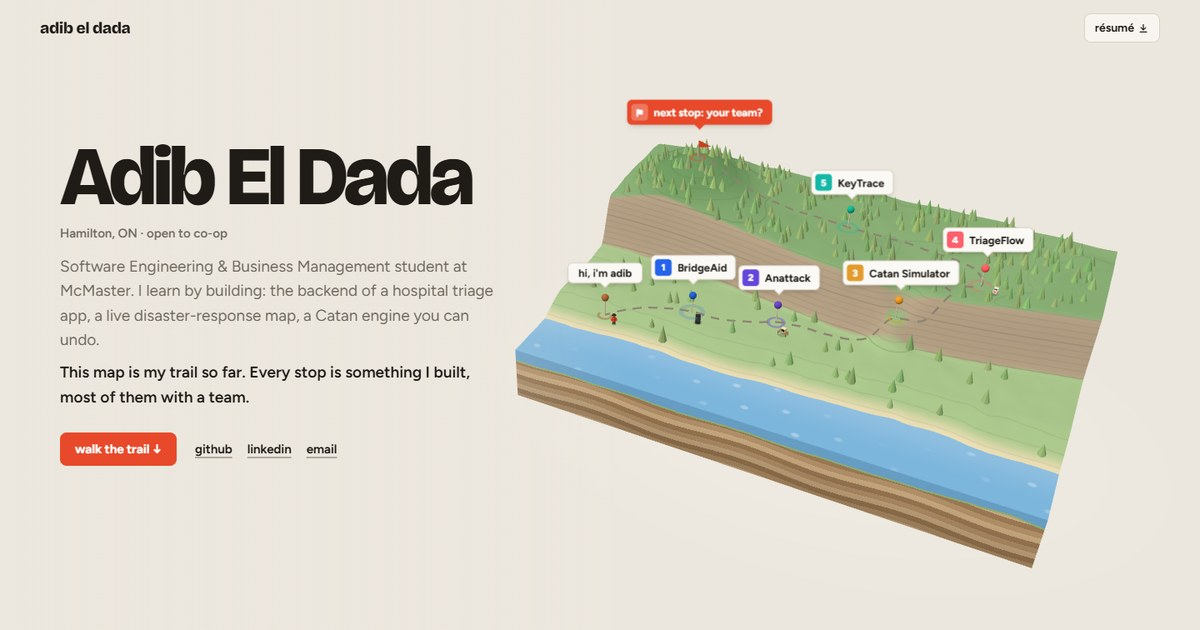
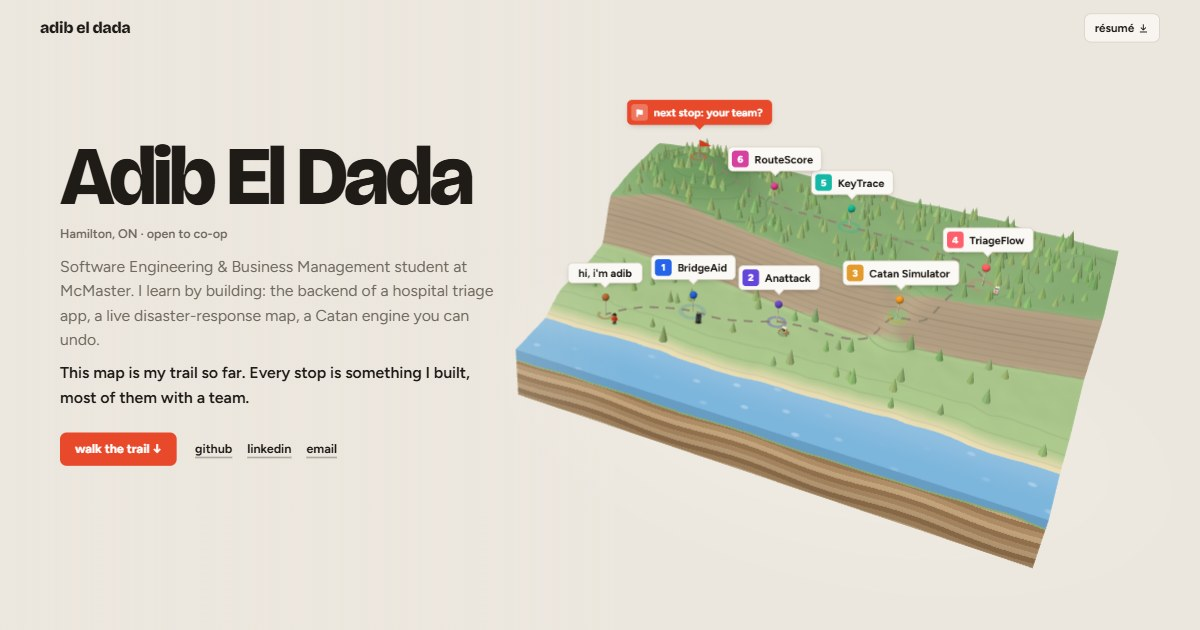
added RouteScore to the roadmap

diff --git a/src/data/projects.ts b/src/data/projects.ts
@@ -115,14 +115,34 @@ export const projects: Project[] = [
 		status: 'in progress',
 		icon: ['#14B8A6', '#5EEAD4'],
 		about:
-			'A web app for practicing coding interviews. You solve a problem in a shared code editor in the browser, alone or with a friend or tutor playing the interviewer. The idea: every keystroke gets recorded, so afterwards you can replay the session and see where you got stuck, what you rewrote and how long each part took, like athletes reviewing game footage.',
+			'A web app for practicing coding interviews. You solve a problem in a shared code editor in the browser, alone or with a friend or tutor playing the interviewer. Every edit gets recorded, so afterwards you can replay the session and see where you got stuck, what you rewrote and how long each part took, like athletes reviewing game footage.',
 		mine: [
-			'Built the real-time core: a Spring Boot backend where each session is a room with its own random ID, and a WebSocket handler relays every edit to everyone else in that room.',
-			"Built the React + TypeScript frontend around the Monaco editor (the one inside VS Code). The room keeps its latest code, so anyone who joins late sees it right away.",
-			'Next up: recording every keystroke with timestamps, replaying sessions with play, pause and scrubbing, and running code in sandboxed Docker containers.',
+			'Built the real-time core: a Spring Boot backend where each session is a room with its own random ID, and a WebSocket handler relays every edit to everyone in that room. The frontend is React + TypeScript around the Monaco editor (the one inside VS Code).',
+			'Every edit is saved as a timestamped snapshot of the code. Ending a session ends it for everyone and turns it into a replay you can play, pause and scrub through on a timeline.',
+			'Added three modes with their own player limits: solo, interview (2 people) and group (up to 10). A full room turns people away instead of breaking.',
+			'Next up: a host role, tests and CI, running code in sandboxed Docker containers, and saving sessions to PostgreSQL.',
 		],
 		stack: ['Java', 'Spring Boot', 'WebSockets', 'React', 'TypeScript', 'Monaco Editor'],
 		github: 'https://github.com/adibeldada/KeyTrace',
+	},
+	{
+		id: 'routescore',
+		map: { x: -2.0, z: -2.05 },
+		name: 'RouteScore',
+		tagline: "How reliable are Hamilton's buses, really?",
+		context: 'Personal project',
+		when: 'Sep 2026 – now',
+		status: 'in progress',
+		icon: ['#D6409F', '#F28CCB'],
+		about:
+			"A tracker for how reliable Hamilton's HSR buses actually are. Every minute it'll pull the city's live bus data and compare where each bus is against where the schedule says it should be. Over time that adds up to a reliability history for every route, stop and hour of the day, so you can see how often your bus runs late at rush hour. It'll also catch \"ghost buses\", trips that were scheduled but never showed up.",
+		mine: [
+			"Started with the data: a Python script that pulls the City of Hamilton's live GTFS-Realtime feed, the open data stream of trip updates the HSR publishes.",
+			'Planned it as small AWS pieces: a Lambda that runs every minute (EventBridge), raw snapshots in S3, delays and stats in DynamoDB, and email alerts through SNS, all set up in code with AWS CDK.',
+			"Next up: saving a snapshot every minute, matching live trips to the schedule, and scoring each arrival with the city's own rule (no more than 2 minutes early or 5 late).",
+		],
+		stack: ['Python', 'GTFS-Realtime'],
+		github: 'https://github.com/adibeldada/RouteScore',
 	},
 ];
 

diff --git a/README.md b/README.md
@@ -103,13 +103,13 @@ Everything about a project lives in **`src/data/projects.ts`**. Add an object to
 	image: '/projects/myproject.png', // optional: a screenshot (see below)
 	award: '2nd place',               // optional
 	status: 'in progress',            // optional: scribbled next to the name. delete it once it's done
-	map: { x: -2.2, z: -2.05 },       // where its stop goes on the map (see below)
+	map: { x: -3.1, z: -2.2 },        // where its stop goes on the map (see below)
 },
 ```
 
 - **Order:** the order of the list is the order of the stops, on the trail and on the page. It runs oldest to newest (the trail climbs as the projects get newer, ending at the summit), so a new project usually goes at the end of the list.
-- **Where it goes on the map:** run `npm run dev`, open `localhost:4321/?debug`, click the land where you want the stop, and paste what it copies (`map: { x: ..., z: ... }`). The trail curves to it on its own. Put each new stop further along the trail than the one before it. Right now there's room on the mountain between KeyTrace and the summit, around `x` -1.2 to -3.2 and `z` -1.8 to -2.3.
-- **If the trail cuts a strange corner** on the way to the new stop, give it bend points to pass through first: `map: { x: -2.2, z: -2.05, via: [[-1.2, -1.95]] }` (the other projects in the file have examples).
+- **Where it goes on the map:** run `npm run dev`, open `localhost:4321/?debug`, click the land where you want the stop, and paste what it copies (`map: { x: ..., z: ... }`). The trail curves to it on its own. Put each new stop further along the trail than the one before it. Right now there's room on the mountain between RouteScore and the summit, around `x` -2.9 to -3.3 and `z` -2.15 to -2.3. After that the summit needs to move further along: it's `SUMMIT` in `src/map/terrain.ts`.
+- **If the trail cuts a strange corner** on the way to the new stop, give it bend points to pass through first: `map: { x: -3.1, z: -2.2, via: [[-2.6, -2.1]] }` (the other projects in the file have examples).
 - **An image:** put the file in `public/projects/` (make the folder the first time) and set `image: '/projects/myproject.png'`. It shows on the card when the project has no live demo.
 - **A live demo** (optional, more work): copy one of the files in `src/components/demos/` as a starting point, then add it to the `demos` list near the top of `src/pages/index.astro`. A project without a demo looks the same, just with its screenshot or only the text.
 
